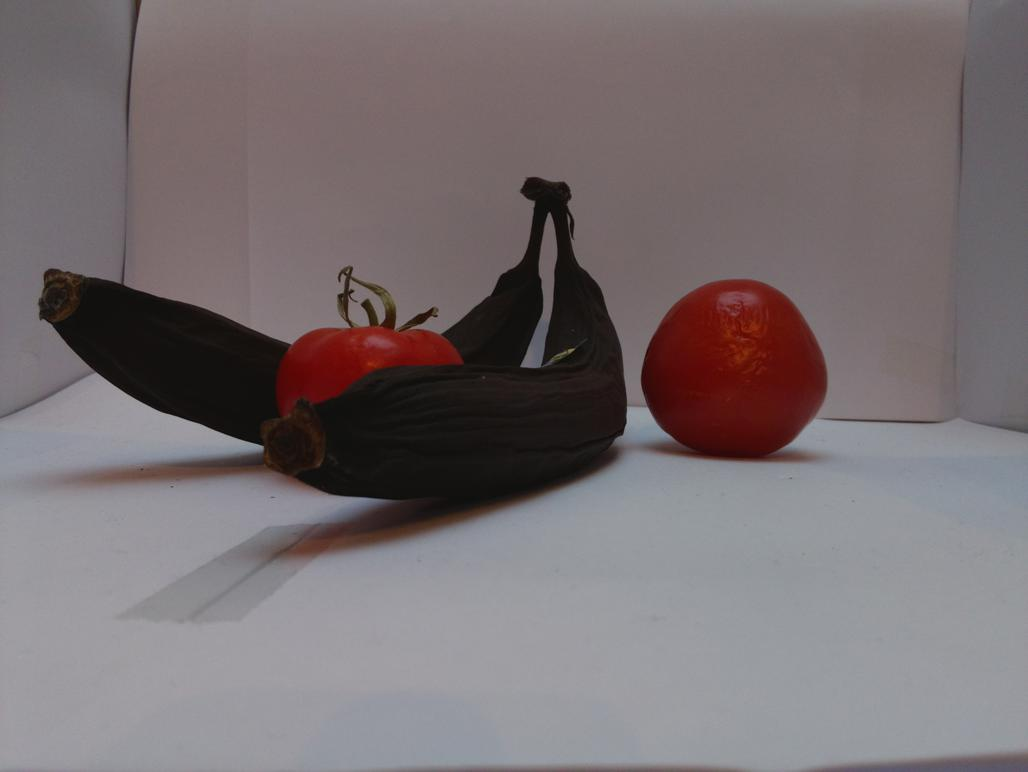
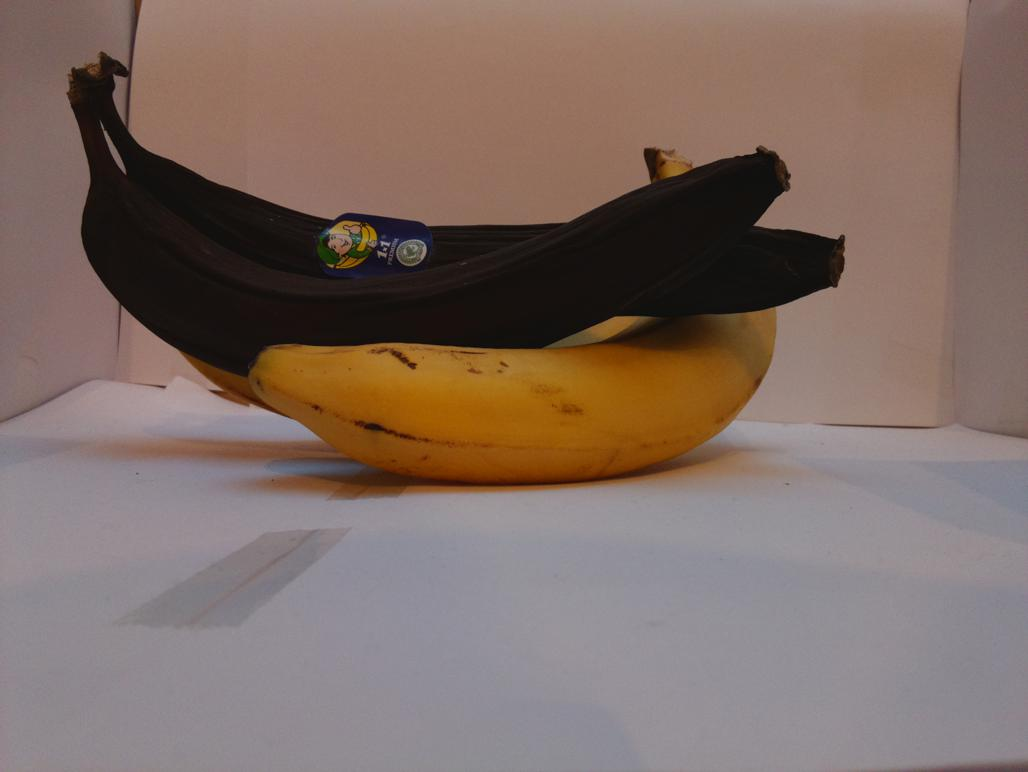
bot speaks: says status of banana

diff --git a/smartfridge/slack_connector/slackbot.py b/smartfridge/slack_connector/slackbot.py
@@ -12,6 +12,24 @@ messages = {
     "lonely": [
         "Is anybody there? Its so cold and dark.",
         "Is there nobody looking for food... or me?"
+    ],
+    "banana_fresh": [
+        "There is a fresh banana."
+    ],
+    "banana_fresh-neutral": [
+        "There is a fresh to neutral banana."
+    ],
+    "banana_neutral": [
+        "There is a neutral banana."
+    ],
+    "banana_neutral-bad": [
+        "There is a neutral to bad banana."
+    ],
+    "banana_bad": [
+        "There is a bad banana."
+    ],
+    "no_detection": [
+        "I am unsure about the fridge's content."
     ]
 }
 
@@ -34,17 +52,17 @@ class Slackbot():
         counter = 0
         for concept in json:
             if concept['value'] >= HIGH_CONF:
-                print("Looks like " + concept['name'])
+                self.speak(concept['name'])
                 counter += 1
             elif concept['value'] >= MEDIUM_CONF:
-                print("Might be " + concept['name'])
+                self.speak(concept['name'])
                 counter += 1
 
         if counter == 0:
-            print("I am unsure about the fridge's content.")
+            self.speak("no_detection")
 
-    def speak(self):
-        message = get_message("neutral")
+    def speak(self, message_type):
+        message = get_message(message_type)
 
         sc.send_message(self.slackClient,
                         self.configuration["SLACK"]["BotName"],

diff --git a/smartfridge/smartfridge.py b/smartfridge/smartfridge.py
@@ -1,7 +1,8 @@
-from camera import camera_handler as ch
+# from camera import camera_handler as ch # TO DO: use this line in production
 from clarifai_connector import clarifai_connector as cc
 import sql_connector as dbcon
 import configuration_management as conf
+import io # TO DO: delete this import in production if not needed 
 import slack_connector as sc
 import cli_parser as cp
 from datetime import datetime
@@ -13,6 +14,7 @@ if __name__ == "__main__":
     ### SLACK ##################################################################
     c = conf.Configuration(cliparser.args.config)
     bot = sc.Slackbot(c)
+	print("Slackbot initialized.")
     #bot.speak()
 
 
